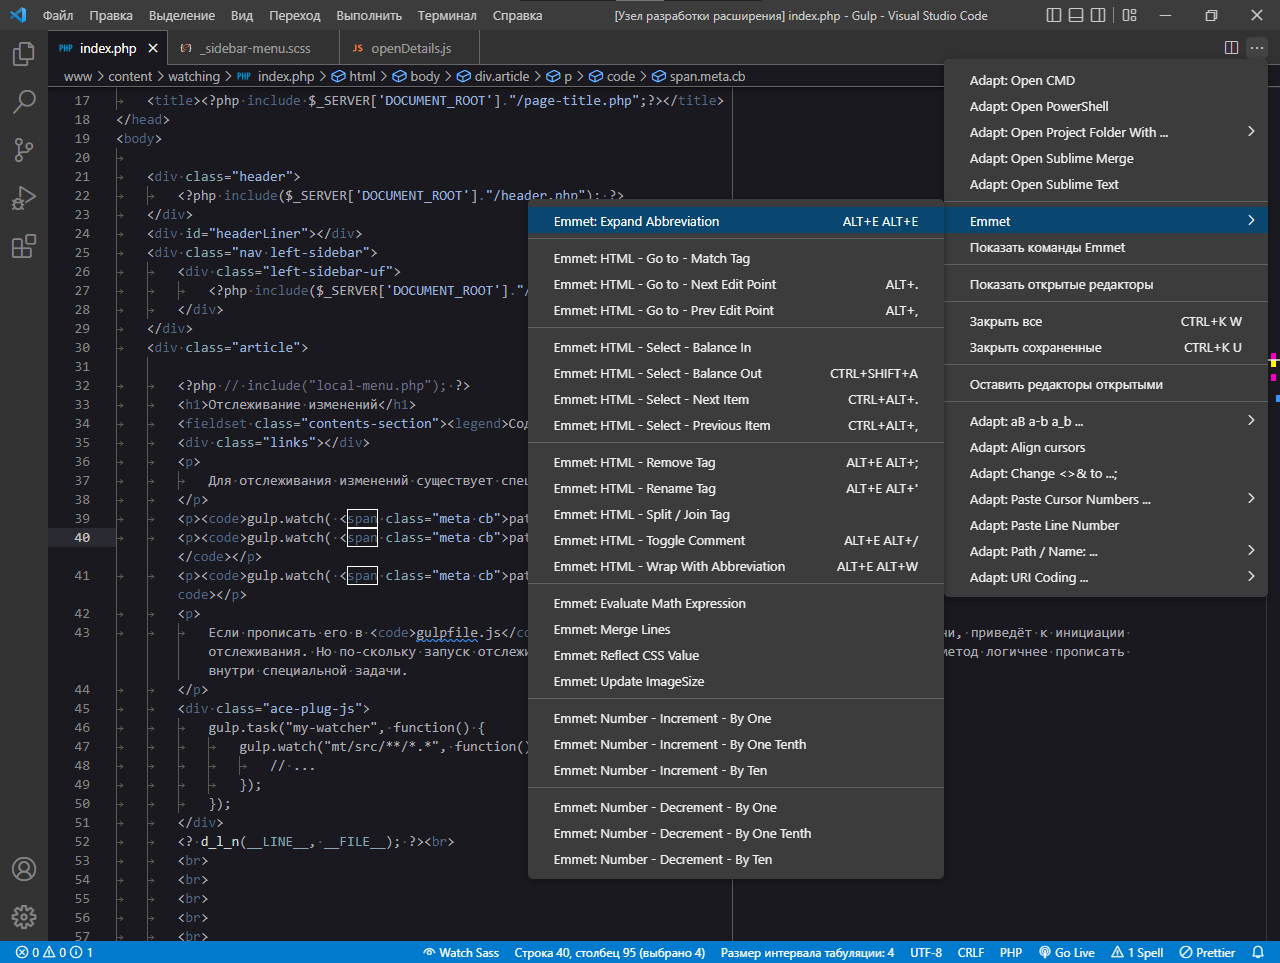
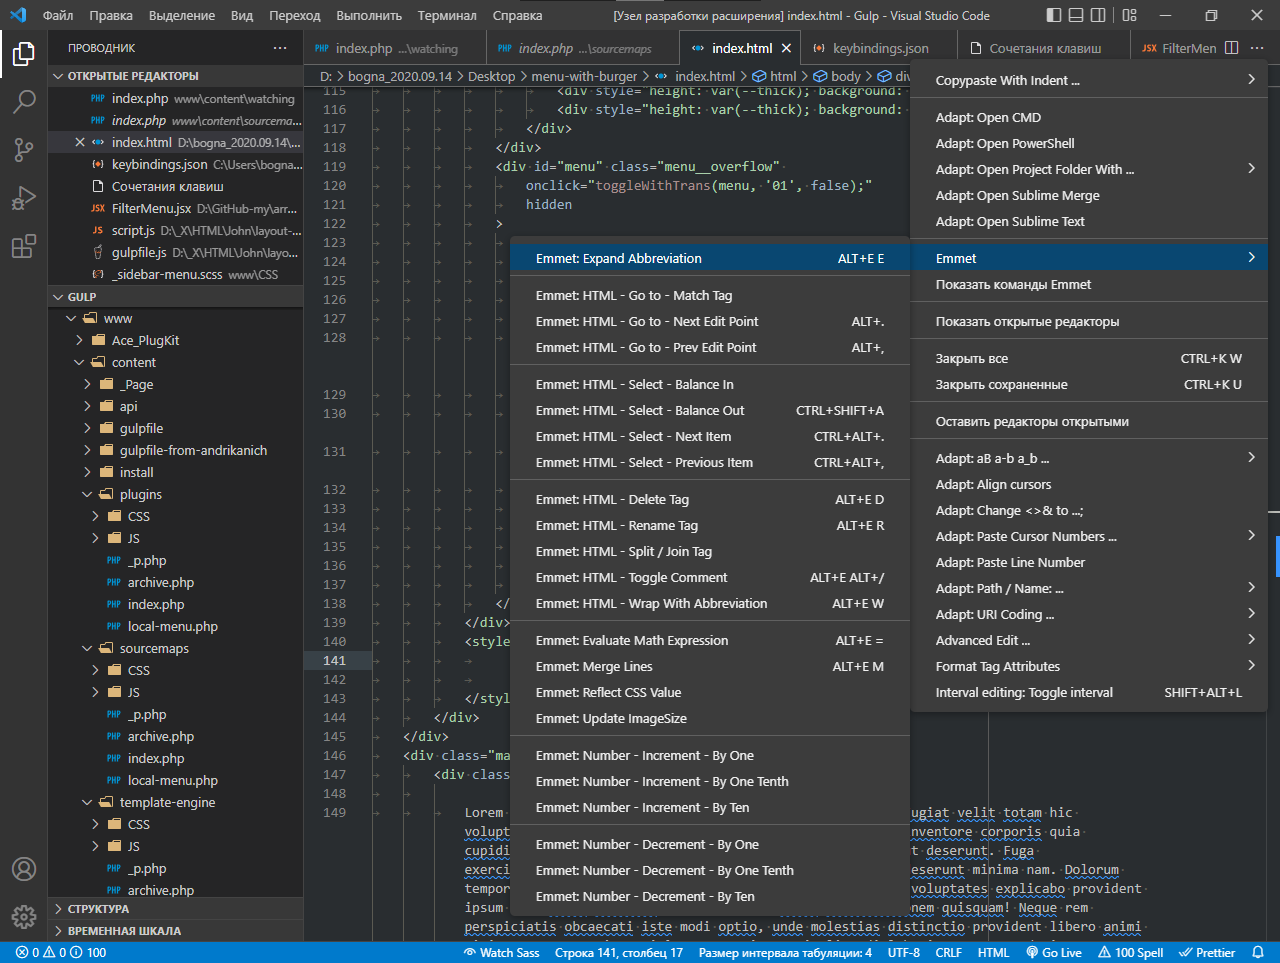
Changed keybindings.

Changed region(s): [[0.0, 0.0, 1.0, 0.9969], [0.9062, 0.0312, 0.9375, 0.0623]]

diff --git a/README.md b/README.md
@@ -1,7 +1,6 @@
-[hr01]: https://bognaum.github.io/vscode-emmet-commands-and-keybindings/IMG/screenshot-01.png
-[hr02]: https://bognaum.github.io/vscode-emmet-commands-and-keybindings/IMG/screenshot-02-02.png
-[hr03]: https://bognaum.github.io/vscode-emmet-commands-and-keybindings/IMG/screenshot-03.png
-[hr04]: https://bognaum.github.io/vscode-emmet-commands-and-keybindings/IMG/screenshot-04.png
+[hr01]: https://bognaum.github.io/vscode-emmet-commands-and-keybindings/IMG/Screenshot-01.png
+[hr02]: https://bognaum.github.io/vscode-emmet-commands-and-keybindings/IMG/Screenshot-02.png
+[hr03]: https://bognaum.github.io/vscode-emmet-commands-and-keybindings/IMG/Screenshot-03.png
 
 # Emmet commands and keybindings
 According to [Emmet documentation](https://docs.emmet.io/) Emmet has three base features:
@@ -30,12 +29,28 @@ But you need some way to use Emmet actions, and this extension will help you. Th
 - The titles of existing in VS Code command have changed to more understandable.
 - If you will add your own keybindings - you will see your keybindings in the above submenu.
 
+## Keybindings
+- ```Alt+E, E``` - Expand abbreviation.
+- ```Ctrl+Shift+A``` Balance out.
+
+- ```Alt+<``` / ```Alt+>``` - Next / previous edit point.
+- ```Ctrl+Alt+<``` / ```Ctrl+Alt+>``` - Next / previous item.
+
+- ```Alt+E, D``` - Delete tag.
+- ```Alt+E, R``` - Rename tag.
+- ```Alt+E, W``` - Wrap with abbreviation.
+- ```Alt+E, M``` - Merge lines.
+- ```Alt+E, =``` - Evaluate math expression.
+- ```Alt+E, Alt+/``` - Toggle comment (to HTML only).
+
 ## Notes:
 - Not all commands existing in the [Emmet documentation](https://docs.emmet.io/) have implemented in VS Code.
 - Assigned keybindings does not correspond to the keybindings of [Emmet documentation](https://docs.emmet.io/).
 
 ## Screenshots
 
+[![hr01]][hr01]
+
 [![hr02]][hr02]
+
 [![hr03]][hr03]
-[![hr04]][hr04]

diff --git a/CHANGELOG.md b/CHANGELOG.md
@@ -4,6 +4,16 @@ All notable changes to the "adapt-emmet-keymap" extension will be documented in 
 
 Check [Keep a Changelog](http://keepachangelog.com/) for recommendations on how to structure this file.
 
+## [2.0.0]
+- changed some keybindings:
+	- ```Alt+E, E``` - ~~Alt+E, Alt+E~~ - Expand abbreviation.
+	- ```Alt+E, D``` - ~~Alt+E, Alt+;~~ - Delete ~~Remove~~ tag.
+	- ```Alt+E, R``` - ~~Alt+E, Alt+'~~ - Rename tag.
+	- ```Alt+E, W``` - ~~Alt+E, Alt+W~~ - Wrap with abbreviation.
+- Added keybindings:
+	- ```Alt+E, M``` - Merge lines.
+	- ```Alt+E, =``` - Evaluate math expression.
+
 ## [1.0.3]
 - changed readme.md and package.json
 
